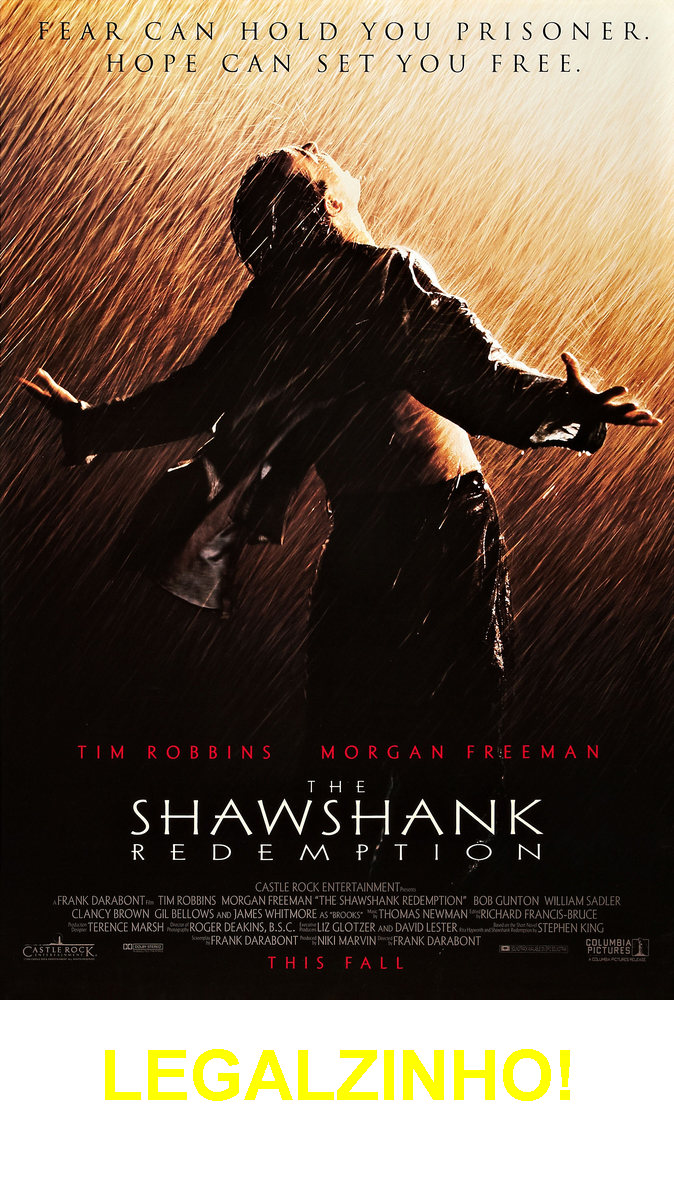
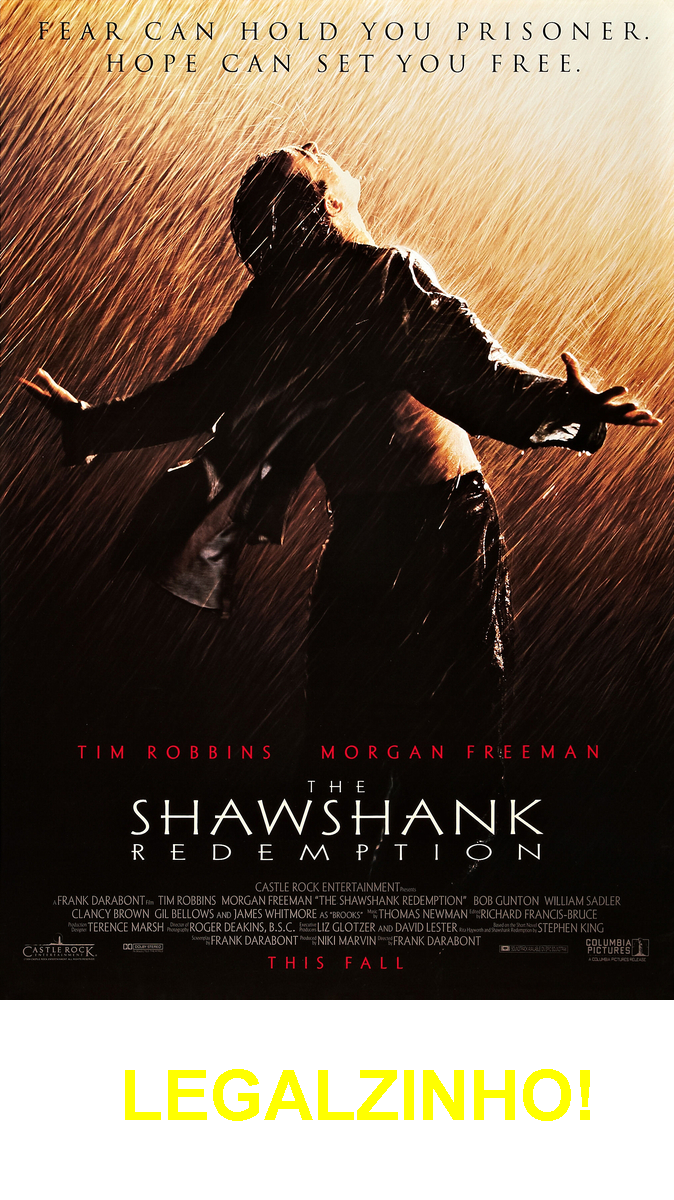
Adicionando inputStream

Changed region(s): [[0.1558, 0.8633, 0.8724, 0.9558]]

diff --git a/src/GeradorDeFigurinhas.java b/src/GeradorDeFigurinhas.java
@@ -3,6 +3,8 @@ import java.awt.Font;
 import java.awt.Graphics2D;
 import java.awt.image.BufferedImage;
 import java.io.File;
+import java.io.InputStream;
+import java.net.URL;
 
 import javax.imageio.ImageIO;
 
@@ -11,7 +13,9 @@ public class GeradorDeFigurinhas {
   public void cria() throws Exception {
 
     // leitura da imagem
-    BufferedImage imagemOriginal = ImageIO.read(new File("./entrada/filmes.jpg"));
+    //BufferedImage imagemOriginal = ImageIO.read(new File("./entrada/filmes.jpg"));
+    InputStream inputStream = new URL("https://raw.githubusercontent.com/alura-cursos/imersao-java-2-api/main/TopMovies_1.jpg").openStream();
+    BufferedImage imagemOriginal = ImageIO.read(inputStream);
 
     // criar nova imagem em memória com transparência e novo tamanho
     int largura = imagemOriginal.getWidth();
@@ -29,7 +33,7 @@ public class GeradorDeFigurinhas {
     graphics.setFont(fonte);
 
     // escrever uma frase na imagem
-    graphics.drawString("LEGALZINHO!", 100, novaAltura - 100);
+    graphics.drawString("LEGALZINHO!", 120, novaAltura - 80);
 
     // escrever a nova imagem em um arquivo
     ImageIO.write(novaImagem, "png", new File("./saida/figurinha.png"));
